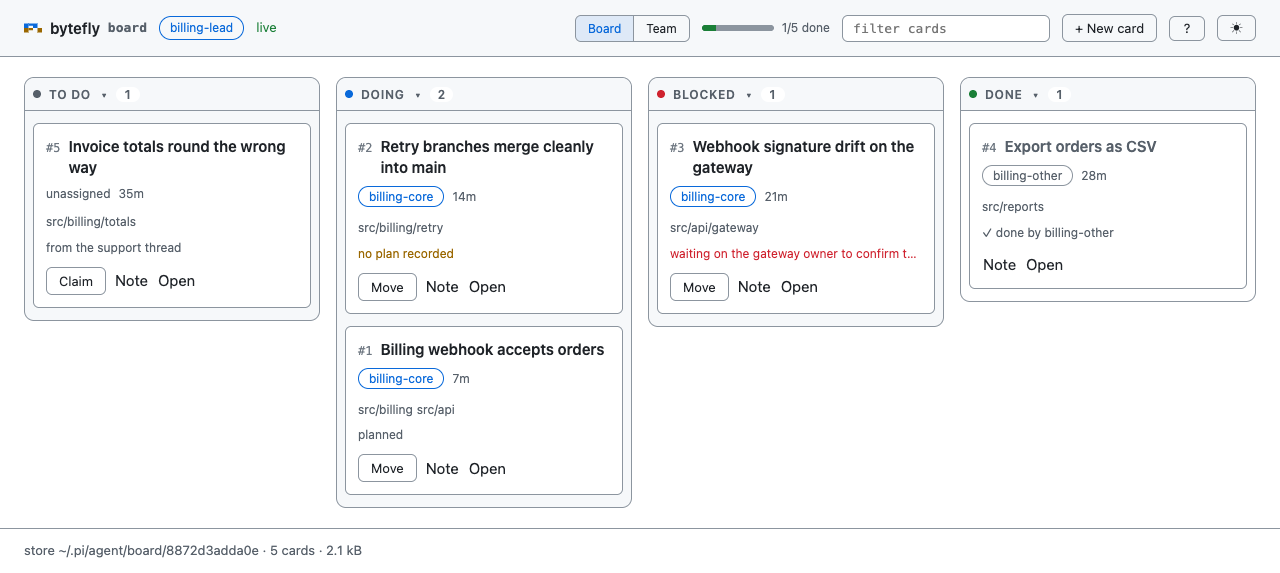
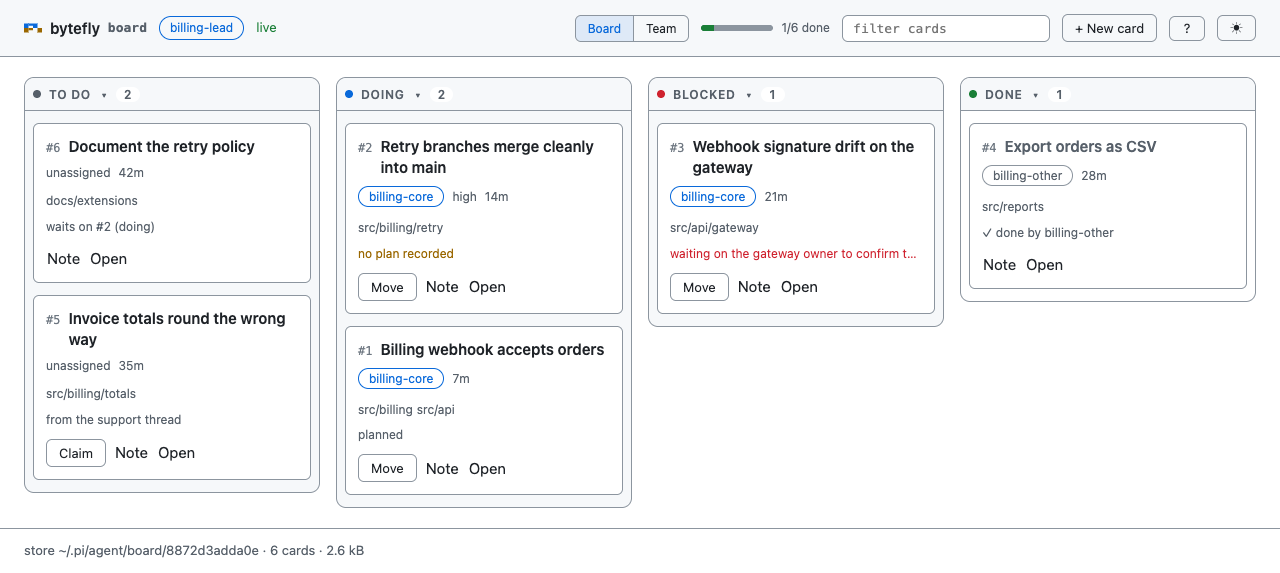
docs(board): the new capabilities in the guides, the catalogs, and the changelog

diff --git a/docs/extensions/board.md b/docs/extensions/board.md
@@ -2,8 +2,8 @@
 
 Every Pi session on a repository reads and writes the same cards, and the same
 cards are served as a live page in your browser. A card is one **feature**: its
-outcome, who holds it, where the work happens, the plan it is executing, and the
-notes that explain how it got there.
+outcome, who holds it, where the work happens, the plan it is executing, how urgent
+it is, what it waits for, and the notes that explain how it got there.
 
 The steps of the work are deliberately *not* on the board. They live in the
 owner's plan and in `todo`; the board answers who is doing what, and what needs a
@@ -25,7 +25,12 @@ decision.
 | Change lane | `board` action `move` | Wherever the owner moves it: `doing`, `blocked`, `done` |
 | Record what happened | `board` action `note` | A note appended to the card's history, attributed and stamped |
 | Record the plan | `board` action `plan` | The plan file the card is executing, so "unplanned" work is visible |
-| Delete a card | `board` action `drop` | The card and its notes are gone; nothing else ever deletes one |
+| Fix what a card says | `board` action `edit` | A new title, path hints, priority, or the cards it waits for — by its holder, or by anyone while nobody holds it |
+| Say how urgent it is | `board` action `add` or `edit` with `priority` | `high` sorts first inside its lane, and the card says so |
+| Record what a card waits for | `board` action `edit` with `dependsOn` | An unfinished dependency refuses a claim and a move to `doing` or `done`, and the reason line names it |
+| Take a card back from the tool | `board` action `reclaim` | The owner clears and the card returns to To do, without the page and without `team` |
+| Find a card without reading every lane | `board` action `list` with `query` | The cards whose title, path hint, or holder matches — the same rule the page's filter uses |
+| Delete a card | `board` action `drop` | The card and its notes are gone; nothing else ever deletes one, and one that a card waits on cannot leave |
 | A live page for the same cards | `/board` | A loopback page with a **Board** tab and a **Team** tab, following the store live |
 | See the lead's round at a glance | `/board team` | A queue of cards that need a decision, each with the reason and its way out, then who is on the team and what they hold |
 | See who is around | `/board team` | The Teammates list: every session this repository's bus has recorded, plus every owner a card names, each stating `live`, `quiet`, `no record`, or `—` when no bus is loaded |
@@ -36,8 +41,11 @@ decision.
 you:  publish two features for the billing work
       → board add "Billing webhook accepts orders" paths ["src/billing"]
       → board add "Retry branches merge cleanly"
+lead: board edit 2 dependsOn ["1"] priority "high"
+      → #2 waits on #1 (todo), and sorts first in To do
 peer: claim the first, plan it, note the phases, finish it
       → board claim 1 → /plan → board plan 1 <plan file> → board note 1 … → board move 1 done
+      → board claim 2 — refused while #1 is unfinished, allowed once it is done
 lead: board list --round
       → 1 owner · 2 features · 1 unassigned · 0 unplanned
 ```
@@ -52,13 +60,15 @@ prints the port and whether the page is running, and `/board stop` closes it.
 
 | Action | Parameters | Result |
 |---|---|---|
-| `list` | `status?`, `card?`, `round?` | the cards in lane order, one card, or one lane; `round: true` adds the rollup, which always covers the whole board |
-| `add` | `title`, `paths?`, `note?` | the new `todo` card |
+| `list` | `status?`, `card?`, `query?`, `round?` | the cards in lane order, one card, or what a query matches; `round: true` adds the rollup, which always covers the whole board |
+| `add` | `title`, `paths?`, `priority?`, `note?` | the new `todo` card |
 | `claim` | `card` | the card, now `doing` and owned by this session |
 | `release` | `card` | the card, back in `todo` |
+| `reclaim` | `card` | the card, back in `todo`, whoever held it |
 | `move` | `card`, `status` | the card in its new lane |
 | `note` | `card`, `text` | the card with the note appended |
 | `plan` | `card`, `path` | the card with its plan recorded |
+| `edit` | `card`, `title?`, `paths?`, `priority?`, `dependsOn?` | the card with what it says corrected; an omitted field is left alone, and `dependsOn: []` removes every link |
 | `drop` | `card` | the id that was dropped |
 
 `card` takes `4` or `#4`. A refused call is an error result that still carries the
@@ -95,11 +105,11 @@ pinned and makes the main pane the only scroll box; the page adds no second one.
 | Band | What it holds |
 |---|---|
 | Toolbar | the mark, the serving session as a chip, a live badge (`connecting`, `live · 3m`, `reconnecting`), then one group: the Board\|Team switch, done-of-total progress, a filter, **+ New card**, the keys button, and the theme toggle |
-| New card dialog | the modal the toolbar's button (or `n`) opens: **Title** on its own line, the loudest field on the page, with a `n/120` count once you type; **Paths** under it, space-separated hints; the hint line; and one closer, `Cancel`, beside **Add card**. The title is focused on open, the dialog stays open after an add so a lead can publish several cards, and a draft survives `Esc`, the backdrop, and `Cancel` is the only thing that discards it |
+| New card dialog | the modal the toolbar's button (or `n`) opens: **Title** on its own line, the loudest field on the page, with a `n/120` count once you type; **Paths** under it, space-separated hints; **Priority** as a three-word list; the hint line; and one closer, `Cancel`, beside **Add card**. The title is focused on open, the dialog stays open after an add so a lead can publish several cards, and a draft survives `Esc`, the backdrop, and `Cancel` is the only thing that discards it. The same dialog is the card dialog's **Edit**: prefilled, headed `Edit card #4`, with **Save** in place of Add — and leaving that mode throws its text away, because that text was the card's, not a draft |
 | Lanes | trays, not a bare list: four columns at ≥1180, two rows at 1000, one lane plus the lane switch at ≤860 — where it opens on the first lane that holds a card. Each head sticks while the pane scrolls, carries its count as a pill, and folds its cards away |
-| Cards | the id and a two-line title (the page's loudest text), an owner chip and an age, path chips, one reason line in one voice — a blocked card's last note, `no plan recorded`, or `planned` — clamped, with the whole sentence as its tooltip, and at most three actions — `Claim` or `Move` bordered, then `Note` and `Open`. A hovered card lifts a pixel; a finished one recedes, title and owner chip muted |
-| Team | two panels and a strip. **Needs a decision** is one row per card — a card that is both idle and unplanned arrives once, keeping its strongest reason — laid out as two lines: the id, title, owner chip and `Reclaim` (or `Claim` when nobody holds it) on the first, the reason on the second with the whole sentence as its tooltip, and its kind as a left edge (`--danger` blocked, `--warn` idle, `--muted` unplanned, a dashed grey edge for nobody's). Above 1180px the queue stops at one screen's height and scrolls inside its panel, so the roster and the Done strip stay on the same page as its top. **Teammates** is one row per person — a state dot, the label, a `you` chip, a mail badge, then `live · 3 held · 1 done · oldest 21m` (a quiet session reads `quiet for 2h`, because a word without an age is no reason to reclaim) — sorted you, live, quiet, no record, and an owner whose label nothing answers to keeps its row. Done is one quiet strip whose ids open their cards. Both panels honour the toolbar's filter, and their headings read `shown/total` the way a lane head does. Below 1180px the queue comes first and the roster follows |
-| Card dialog | the lane as a dot and a word beside the title, a meta line, the owner, the paths, the plan as monospace text, the notes as a timeline (who and when above the sentence, a rule between them), a note field, and `Move to` only the lanes the card can reach, then `Release`, `Drop`, `Close` |
+| Cards | the id and a two-line title (the page's loudest text), an owner chip and an age, a muted priority chip when it is not `normal`, path chips, one reason line in one voice — what a card waits for, a blocked card's last note, `no plan recorded`, or `planned` — clamped, with the whole sentence as its tooltip, and at most three actions — `Claim` or `Move` bordered, then `Note` and `Open`. A card that waits offers neither `Claim` nor `Move`: the reason line is what it says instead. A hovered card lifts a pixel; a finished one recedes, title and owner chip muted |
+| Team | two panels and a strip. **Needs a decision** is one row per card — a card that is both idle and unplanned arrives once, keeping its strongest reason — laid out as two lines: the id, title, owner chip and `Reclaim` (or `Claim` when nobody holds it) on the first, the reason on the second with the whole sentence as its tooltip, and its kind as a left edge (`--danger` blocked, `--warn` idle, `--muted` unplanned or waiting, a dashed grey edge for nobody's). A card that waits on unfinished work is a row of its own kind and offers no action: the claim the rules would refuse is not on the row at all. Above 1180px the queue stops at one screen's height and scrolls inside its panel, so the roster and the Done strip stay on the same page as its top. **Teammates** is one row per person — a state dot, the label, a `you` chip, a mail badge, then `live · 3 held · 1 done · oldest 21m` (a quiet session reads `quiet for 2h`, because a word without an age is no reason to reclaim) — sorted you, live, quiet, no record, and an owner whose label nothing answers to keeps its row. Done is one quiet strip whose ids open their cards. Both panels honour the toolbar's filter, and their headings read `shown/total` the way a lane head does. Below 1180px the queue comes first and the roster follows |
+| Card dialog | the lane as a dot and a word beside the title, a meta line, the owner and its priority, the paths, what it waits for, the plan as monospace text, the notes as a timeline (who and when above the sentence, a rule between them), a note field, and `Move to` only the lanes the card can reach, then `Release`, `Edit`, `Drop`, `Close` |
 
 Colour is a role: `--muted` for `todo`, `--accent` for `doing`, `--danger` for
 `blocked` and destructive choices, `--success` for `done`. The Team tab's decision
@@ -142,6 +152,12 @@ pages. A field keeps its keys: `n` inside the note input types an `n`.
 
 - **Ownership is advisory.** Two sessions can still edit the same file; only
   `session-bus`'s path claims are a lock.
+- **A link is an order, not a lock.** It is checked when a card is taken and when it
+  is finished, so a `done` card released back to To do leaves the card that already
+  finished — the board says the order once, it does not reopen history.
+- **Links are recorded by the tool.** A link names an id, so the page shows what a
+  card waits for but does not edit it; `board edit` records it while the card is being
+  planned, and `board drop` refuses to strand one.
 - **The board does not know whether a session is alive.** "Idle" means a `doing`
   card nobody has touched for 30 minutes, not that its process is gone; and the
   Teammates list reads the bus's records, where `live` is a heartbeat inside ten
@@ -191,9 +207,21 @@ pages. A field keeps its keys: `n` inside the note input types an `n`.
   is something you ask to write. It is the kit's modal, so `Tab` stays inside it and
   closing returns focus to the button that opened it; a draft survives `Esc` or a
   backdrop click, and `Cancel` is the one way to throw it away.
+- **One edge, stored once.** A link is one id in the waiting card's file and the
+  reverse edge is computed over the board, because a `blockedBy` copy of the same edge
+  is a copy that drifts; the cycle check and the drop rule are what keep the graph
+  whole instead.
+- **A priority is a field, not a lane.** The four lanes are the board's vocabulary and
+  a fifth would double the counts and the heads; inside a lane, priority then age is the
+  order, and a card says its priority only when it is not the ordinary one.
+- **`edit` leaves an omitted field alone.** It is the one action whose job is "make it
+  say this", so an absent field must mean "not this field" — otherwise the page, which
+  shows no links, would clear every link it saved.
 - **Rejected:** steps as cards (they flood the board), a shared database (a file per
   card needs no dependency and no lock), an index file (every write maintains it,
-  every read can find it stale), and drag-and-drop (a lane change is a named `move`).
+  every read can find it stale), drag-and-drop (a lane change is a named `move`), a
+  priority lane (four lanes are the vocabulary), and a reverse `blockedBy` field (two
+  copies of one edge).
 
 ## Files
 
@@ -224,8 +252,8 @@ The store, the rules, the rollup, and the snapshot are `lib/board/` — see
 
 ## Testing
 
-`test/suite-manifest.ts` declares the suites: `lib/board/{card,rules,store,round,view}`
-for the record, the lifecycle, the store, the rollup, and the snapshot, and
+`test/suite-manifest.ts` declares the suites: `lib/board/{card,links,rules,store,round,view}`
+for the record, the dependency graph, the lifecycle, the store, the rollup, and the snapshot, and
 `extensions/board/{runtime,tools,page,commands,extension,transport/router,view/pages}`
 for the wiring, every action, the page's lifecycle over a real socket, the command,
 the factory, the routes, and the document and client bundle.

diff --git a/lib/README.md b/lib/README.md
@@ -44,7 +44,7 @@ belongs in that extension instead — see `extensions/web-access/http.ts` and
 | [`rails.ts`](./rails.ts) | Above-editor widget ordering (`goal` → `todo`) and dock-screen suppression, carried on `pi.events`. |
 | [`repo-key.ts`](./repo-key.ts) | The per-repository storage key that outlives one checkout: `repoKeyOf(value)` hashes an identity to `REPO_KEY_LENGTH` hex characters, and `repoKeyFor(pi, cwd)` returns `{ root, key, fromGit }` from the repository's *common* git directory, so every worktree of one repository files state under the same key, while a directory outside git keys on itself. Shared by `session-bus` (sessions, mail, claims) and `plan` (plans). |
 | [`screen-session.ts`](./screen-session.ts) | `withPolledScreen`: mount one `ctx.ui.custom` dock screen — rails suppressed for its lifetime, an optional repaint tick through an injected `RepeatTimer`, and one teardown — handing the mount the host's `tui`, `theme`, `requestRender`, `close`, and `viewportRows`. Shared by `/jobs`, `/watch`, and `/memory`, whose rails window and timer window were the same one. |
-| [`board/`](./board/) | The shared feature board. [`board/card.ts`](./board/card.ts) is the record: `CARD_VERSION`, `Card` / `CardStatus` / `CardOwner` / `CardNote`, the field caps `MAX_TITLE` / `MAX_PATHS` / `MAX_PLAN` / `MAX_NOTE` / `MAX_NOTES`, the `normalize*` boundary the model's arguments pass (`normalizeTitle`, `normalizePathHints` — repo-relative hints, never claims —, `normalizeNote`, `normalizePlanPath`, `normalizeCardId`), `cardRef`, `signatureOf`, and `isCard`, the one gate a file read passes. [`board/rules.ts`](./board/rules.ts) is the lifecycle: `Actor`, `CardOp`, `createCard`, the pure `applyOp` (every transition, its owner rule, and the sentence a refusal carries, with a no-op reported as `changed: false`), and `holds`. [`board/session.ts`](./board/session.ts) is the session a call works as (`BoardSession`, `openBoardSession` — one store per working directory, and the id/label pair a card records, shared by `board` and `team`). [`board/store.ts`](./board/store.ts) is the backend: `BoardStore` over `<agentDir>/board/<repo-key>/cards/*.json`, with `createStore(dir)` and the one construction point `openBoard(pi, cwd)` — `create` allocates the id by hard-linking a temp file onto the name (so two adds cannot share one), `mutate` re-reads and re-checks an operation whose card changed underneath instead of overwriting it, and nothing prunes. [`board/round.ts`](./board/round.ts) is the lead's rollup (`buildRound`, `IDLE_MS` — owners, unassigned, unplanned, blocked, idle, done, read from the cards alone so it works with the bus disabled). [`board/view.ts`](./board/view.ts) is the page's snapshot (`buildView` → lanes, counts, rollup, bytes, signature, where), the one shape a client is allowed to know. |
+| [`board/`](./board/) | The shared feature board. [`board/card.ts`](./board/card.ts) is the record: `CARD_VERSION`, `Card` / `CardStatus` / `CardOwner` / `CardNote`, the field caps `MAX_TITLE` / `MAX_PATHS` / `MAX_PLAN` / `MAX_NOTE` / `MAX_NOTES`, the `normalize*` boundary the model's arguments pass (`normalizeTitle`, `normalizePathHints` — repo-relative hints, never claims —, `normalizeNote`, `normalizePlanPath`, `normalizeCardId`, `normalizePriority`), the priority (`PRIORITIES`, `priorityOf`, `priorityRank`) and the links (`dependsOf`), `matchesQuery` — the rule `list`'s `query` applies, which the page's filter box answers in its own script — `cardRef`, `signatureOf`, and `isCard`, the one gate a file read passes. [`board/rules.ts`](./board/rules.ts) is the lifecycle: `Actor`, `CardOp` (including `edit`, whose fields are each optional because an omitted one must be left alone), `createCard`, the pure `applyOp` over the card *and* the board index (every transition, its owner rule, the dependency gates a claim, a move, and a drop pass, and the sentence a refusal carries, with a no-op reported as `changed: false`), and `holds`. [`board/links.ts`](./board/links.ts) is the dependency graph that index answers: `BoardIndex` / `indexOf`, `blockersOf` (what is unfinished), `dependentsOf` / `dependedOn` (what a drop would strand), `wouldCycle`, and `normalizeDepends` — one edge stored once, as an id in the waiting card's file. [`board/session.ts`](./board/session.ts) is the session a call works as (`BoardSession`, `openBoardSession` — one store per working directory, and the id/label pair a card records, shared by `board` and `team`). [`board/store.ts`](./board/store.ts) is the backend: `BoardStore` over `<agentDir>/board/<repo-key>/cards/*.json`, with `createStore(dir)` and the one construction point `openBoard(pi, cwd)` — `create` allocates the id by hard-linking a temp file onto the name (so two adds cannot share one), `mutate` re-reads the board and re-checks an operation whose card changed underneath instead of overwriting it, `list` orders a lane by priority before age, and nothing prunes. [`board/round.ts`](./board/round.ts) is the lead's rollup (`buildRound`, `IDLE_MS` — owners, unassigned, unplanned, blocked, idle, done, read from the cards alone so it works with the bus disabled). [`board/view.ts`](./board/view.ts) is the page's snapshot (`buildView` → lanes, counts, rollup, bytes, signature, where), the one shape a client is allowed to know. |
 | [`session-roster.ts`](./session-roster.ts) | Who is on this repository's bus, read as data: `readRoster(dir)` returns `RosterSession` (`id`, `label`, `mode`, `lastSeen`, `mail`) or `undefined` when the bus has never been used here, `rosterStateOf` applies the liveness rule, and `BUS_DIR_NAME` / `SESSIONS_DIR_NAME` / `INBOX_DIR_NAME` / `SESSION_TTL_MS` are the one copy of the layout, imported by `session-bus` and read by `board`'s page so the Team tab can list teammates without the board depending on the bus extension. |
 | [`session-label.ts`](./session-label.ts) | The label rules a session is addressed by and a card records: `MAX_LABEL`, `normalizeLabel` (one line, capped, with a fallback), `shortId`, and `defaultLabel` (the Pi session name, else the working directory's basename, else the id). Shared by `session-bus` (which settles the unique one) and `board` (which records it on a claimed card), so a card's owner names a target the bus answers to. |
 | [`requirements.ts`](./requirements.ts) | Per-extension runtime prerequisite table plus a pure `probeExtension(seams)` over injected seams (exec, config reads, optional imports, the published search provider, env, and a refresh-only reachability probe): bytefly's doctor surface reports on it and the extensions that own a dependency format their errors from it. A check kind is either a prerequisite (`binary`, `module`, `state`, `invocation`, `notify`, `provider`) or a `safety` switch whose off value trades a protection away, read from `bytefly.json` global-then-project. |

diff --git a/docs/extensions/team.md b/docs/extensions/team.md
@@ -7,7 +7,7 @@ it a handoff, and `reclaim` takes a card back when its owner has gone quiet.
 Nothing starts a process. The handoff lands in the peer's inbox, and an armed
 `session watch` is what raises its turn — so `assign` is a message, not a launch.
 
-<img src="../../assets/screens/team.png" alt="The Team tab as a dashboard: on the left, a Needs a decision queue of rows with a coloured kind edge, the reason on its own line, and a Reclaim or Claim action on the row edge; on the right, a Teammates list with a state dot, label, you chip, mail badge and a line of what each holds; and one muted Done line under both" width="100%">
+<img src="../../assets/screens/team.png" alt="The Team tab as a dashboard: on the left, a Needs a decision queue of rows with a coloured kind edge, the reason on its own line, and a Reclaim or Claim action on the row edge, or no action on a card that waits; on the right, a Teammates list with a state dot, label, you chip, mail badge and a line of what each holds; and one muted Done line under both" width="100%">
 
 *The Team tab: the cards that need the lead, then who is on the team — including an
 owner whose label nothing answers to.*
@@ -51,7 +51,7 @@ lists them — a label that is not live cannot be handed a card, and the send sa
 
 | What failed | What the card is | What the lead reads |
 |---|---|---|
-| the card is missing, `done`, or held by a third session | untouched | the refusal, with no message sent at all |
+| the card is missing, `done`, held by a third session, or waiting on unfinished work | untouched | the refusal, with no message sent at all |
 | the send | untouched — `todo`, no owner | `#4 was not handed off to billing-core: …`, plus `The card is unchanged.` |
 | the assignment, after a successful send | whatever the other writer left | `#4 was handed off to billing-core, but the card changed before it could be assigned: …`, and the peer is told to `board claim` it |
 
@@ -115,9 +115,10 @@ plans, works, notes, and moves it to `done` or `blocked`.
   folds back in.
 - **Send first.** A card assigned without a message is a card nobody knows about,
   while a message for a card that then changed is one the peer can still claim.
-- **`reclaim` lives here, not in `board`.** It is the compensation for a dispatch that
-  did not land, so it belongs in the lead's context — and the page offers it too,
-  because a card whose owner died has no other way back.
+- **`reclaim` is here, and in `board`.** It is the compensation for a dispatch that did
+  not land, so it belongs in the lead's context — and it is the same operation `board`
+  and its page offer, because a card whose owner went away must not need a second
+  extension to come back. `assign` is the part that needs the bus; `reclaim` never did.
 
 ## Files
 

diff --git a/README.md b/README.md
@@ -119,7 +119,7 @@ the full tool and command surface, opening with its capabilities.
 | [`job`](./docs/extensions/job.md) | `job`, `/jobs` | Run long-lived shell commands in the background; inspect logs, wait, or kill them. |
 | [`watch`](./docs/extensions/watch.md) | `watch`, `/watch` | Tail a file or command output, match lines against patterns, and alert you or hand matching lines to the agent. |
 | [`session-bus`](./docs/extensions/session-bus.md) | `session`, `/sessions` (screen) | Coordinate parallel Pi sessions on one repository: discover peers, exchange short messages/events, consume an inbox, or claim paths before editing, with `/sessions` as a live board of peers, unread mail, and claims. Local, pull-based by default, with an opt-in inbox watch that raises this session's turn once it is idle; it never spawns an agent. |
-| [`board`](./docs/extensions/board.md) | `board`, `/board` | One shared feature board per repository: a card per feature, which any session claims, moves, notes, and finishes, and a loopback page that shows the same cards live in a **Board** and a **Team** tab. Steps stay in the owner's plan and `todo`; a card is the feature, its owner, and the history that explains it. |
+| [`board`](./docs/extensions/board.md) | `board`, `/board` | One shared feature board per repository: a card per feature, which any session claims, moves, edits, notes, and finishes, and a loopback page that shows the same cards live in a **Board** and a **Team** tab. A card can carry a priority and name the cards it waits on, so the order of the work is on the board. Steps stay in the owner's plan and `todo`; a card is the feature, its owner, and the history that explains it. |
 | [`team`](./docs/extensions/team.md) | `team` | The lead's round over the same board: `assign` hands a feature to a session that is already running — the handoff waits in its inbox, and an armed `session watch` raises that turn — and `reclaim` takes a card back to To do. Nothing is spawned, and no card is created or finished here. |
 | [`context`](./docs/extensions/context.md) | `/context` | Show where the context window goes — system prompt, tool definitions, conversation by role, injected notes — and compact from the report with the before and after numbers. |
 

diff --git a/CHANGELOG.md b/CHANGELOG.md
@@ -8,6 +8,28 @@ to [Semantic Versioning](https://semver.org/spec/v2.0.0.html).
 
 ### Added
 
+- `board`: a card can be corrected. `board` action `edit` fixes its title, its path
+  hints, its priority, and what it waits for — by the session that holds it, or by
+  anyone while nobody holds it, including a `done` card, because a title is what a
+  reader reads rather than a step of the work. An omitted field is left alone, so an
+  edit cannot clear a link it never showed; the page's new-card dialog is the same
+  form, prefilled and headed `Edit card #4` with **Save** in place of Add.
+- `board`: a card carries a priority — `high`, `normal`, or `low`, set by `add` or
+  `edit`. A lane sorts `high` first and then by age, so a lead can order the queue
+  without a fifth lane; the card chips its priority only when it is not the ordinary
+  one, and the row's trailing text says the same word.
+- `board`: a card can name what it waits for. `edit` with `dependsOn` records the ids,
+  refusing a card that is not there, the card itself, and a loop through the existing
+  edges; while one of them is unfinished the card cannot be claimed, assigned, or
+  moved to `doing` or `done`, and a card another one waits on cannot be dropped. The
+  refusal, the card's reason line, and the Team tab say `waits on #2 (doing)` in the
+  same words, and the page offers no `Claim` on a card the rules would turn down — the
+  Team tab gives it a row of its own instead.
+- `board`: `reclaim` is a board action now, not only the page's and `team`'s — the
+  same operation, from any session, for a card whose owner has gone. `list` also takes
+  a `query`, matching a title, a path hint, or a holder with the rule the page's filter
+  already used.
+
 - `board`: the page is rebuilt on the shared kit, with the reading of the board put
   first. The toolbar carries the serving session, a live badge, the Board|Team
   switch, done-of-total progress, a filter and a keys button; the composer is a dialog

diff --git a/docs/user-guide/delegate-and-background.md b/docs/user-guide/delegate-and-background.md
@@ -290,11 +290,16 @@ every worktree sees the same cards.
 - A card is one **feature**, not one step: the steps of the work live in the
   owner's plan and in `todo`. A card carries the feature's outcome, the session
   holding it, path hints, the plan file it is executing, and its notes.
-- `board` `action: "list"` reads the board, `add` creates a `todo` card, `claim`
-  takes one for this session, `move` changes lane, `note` appends to its history,
-  `plan` records the plan file, `release` gives it back, and `drop` deletes a
-  `todo`, a `done`, or one you hold. `round: true` adds the lead's rollup: who
-  holds what, what is unassigned, unplanned, blocked, or has gone quiet.
+- `board` `action: "list"` reads the board — `query` finds a card by title, path
+  hint, or holder — `add` creates a `todo` card with a `priority`, `claim` takes one
+  for this session, `move` changes lane, `note` appends to its history, `plan`
+  records the plan file, `edit` fixes a card's title, hints, priority, or what it
+  waits for, `release` gives it back, `reclaim` takes it from whoever holds it, and
+  `drop` deletes a `todo`, a `done`, or one you hold. `round: true` adds the lead's
+  rollup: who holds what, what is unassigned, unplanned, blocked, or has gone quiet.
+- A card can wait on another (`edit` with `dependsOn`): the claim and the move to
+  `doing` or `done` are refused while that card is unfinished, so the order of a
+  feature's work is on the board instead of in somebody's head.
 - `/board` serves the same cards as a page in your browser and opens it: a
   **Board** tab with the four lanes, and a **Team** tab with one panel per owner.
   The toolbar and footer stay put while the board scrolls, and the page follows the
